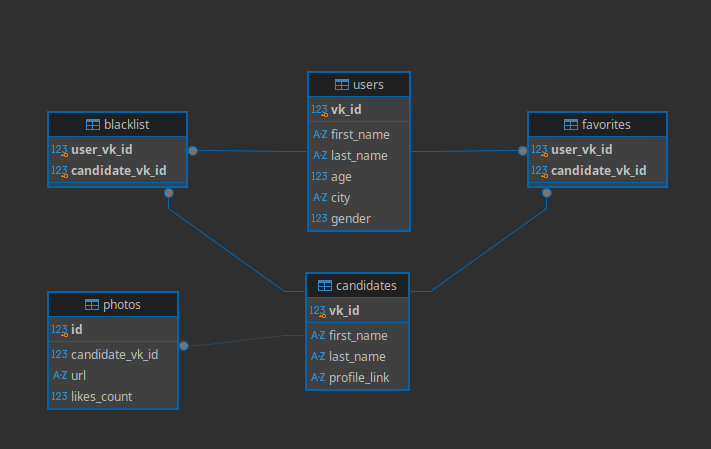
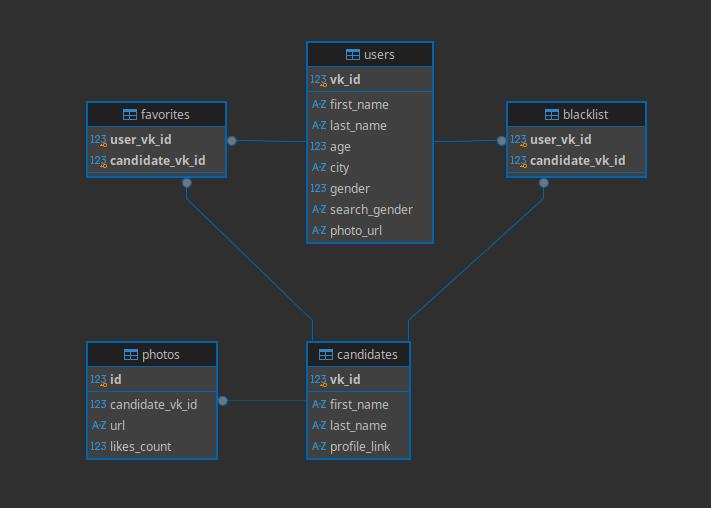
feat(db): add photo_url to user creation and update_user_preferences function

diff --git a/db/crud.py b/db/crud.py
@@ -13,7 +13,13 @@ from db.database import SessionLocal
 
 
 def get_or_create_user(
-    vk_id: int, first_name: str, last_name: str, age: int, city: str, gender: int
+    vk_id: int,
+    first_name: str,
+    last_name: str,
+    age: int,
+    city: str,
+    gender: int,
+    photo_url: Optional[str] = None,
 ) -> Optional[User]:
     """
     Получает пользователя из БД по vk_id.
@@ -27,6 +33,7 @@ def get_or_create_user(
     :param age: Возраст
     :param city: Город
     :param gender: Пол (1 = жен, 2 = муж)
+    :param photo_url: Ссылка на фото аватарки пользователя
     :return: Объект User из базы данных или None, если произошла ошибка БД
     """
     with SessionLocal() as session:
@@ -42,6 +49,7 @@ def get_or_create_user(
                     age=age,
                     city=city,
                     gender=gender,
+                    photo_url=photo_url,
                 )
                 session.add(user)
                 session.commit()
@@ -50,6 +58,29 @@ def get_or_create_user(
                 session.rollback()
                 print(f"Ошибка при работе с БД: {e}")
                 return None
+
+
+def update_user_preferences(vk_id: int, search_gender: str) -> bool:
+    """
+    Обновляет предпочтения поиска пользователя (кого он ищет).
+
+    :param vk_id: ID пользователя
+    :param search_gender: 'man' или 'woman'
+    :return: True при успехе, False если пользователь не найден или произошла ошибка
+    """
+    with SessionLocal() as session:
+        try:
+            user = session.get(User, vk_id)
+            if not user:
+                return False
+
+            user.search_gender = search_gender  # type: ignore
+            session.commit()
+            return True
+        except SQLAlchemyError as e:
+            session.rollback()
+            print(f"Ошибка при обновлении предпочтений пользователя: {e}")
+            return False
 
 
 def save_candidate(

diff --git a/db/models.py b/db/models.py
@@ -54,6 +54,8 @@ class User(Base):
     age = Column(Integer)
     city = Column(String(100))
     gender = Column(Integer)
+    search_gender = Column(String(10), nullable=True)
+    photo_url = Column(String(255), nullable=True)
 
     candidates = relationship("Candidate", secondary=favorites, back_populates="users")
     blocked_candidates = relationship(
